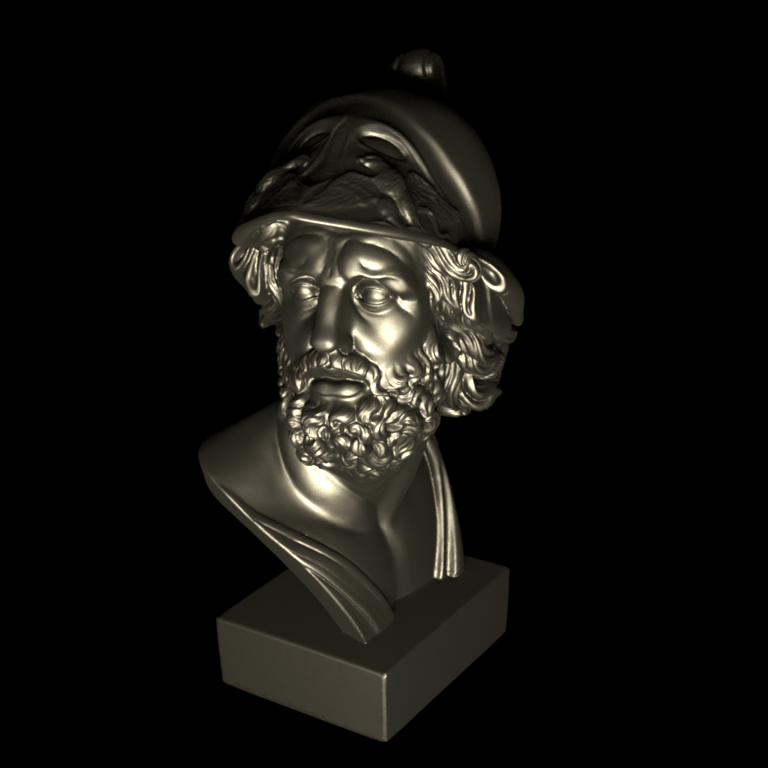
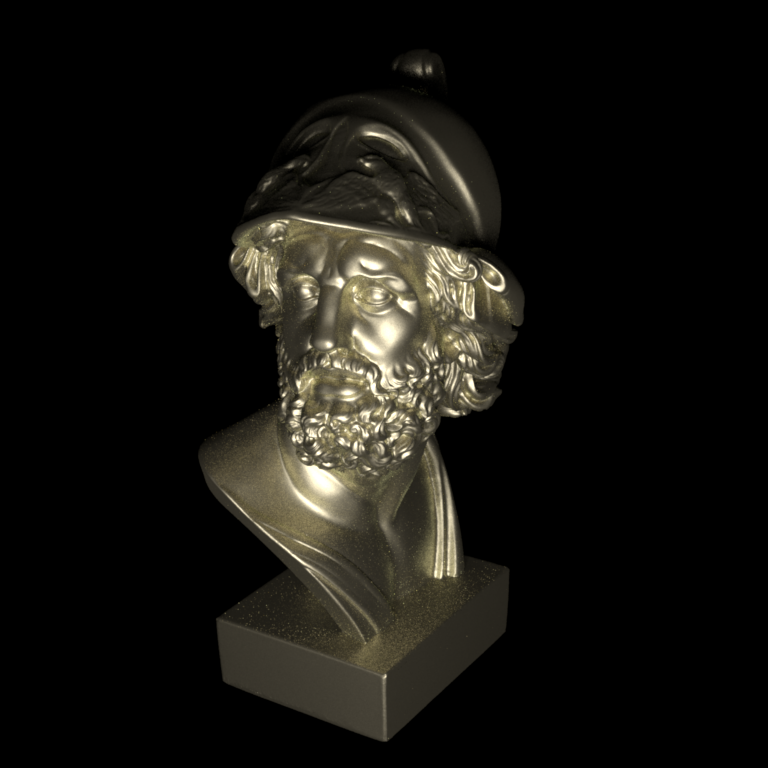
Fixed exception when sampling bsdfs

Changed region(s): [[0.2812, 0.25, 0.6875, 0.875], [0.4688, 0.1562, 0.5, 0.1875]]

diff --git a/src/pathtracing.cpp b/src/pathtracing.cpp
@@ -126,7 +126,7 @@ void Pth::sampleBSDF(const Scene *scene, Sampler *sampler, PathState &state, flo
     // Render non diffuse BSDF
     BSDFQueryRecord bsdfQuery(wi);
 
-    Color3f f = state.intersection.mesh->getBSDF()->sample(bsdfQuery, sampler->next2D());
+    Color3f f = state.intersection.mesh->getBSDF()->sample(bsdfQuery, sampler);
     pdf = state.intersection.mesh->getBSDF()->pdf(bsdfQuery);
 
     // Create the new ray

diff --git a/include/nori/bsdf.h b/include/nori/bsdf.h
@@ -85,7 +85,7 @@ public:
     virtual Color3f sample(BSDFQueryRecord &bRec, Sampler *sampler) const = 0;
 
     Color3f sample(BSDFQueryRecord &bRec, const Point2f &sample) const {
-        throw NoriException("BSDF::sample() not implemented!");
+        throw NoriException("BSDF::sample(point) not implemented!");
     }
 
     /**
